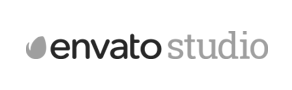
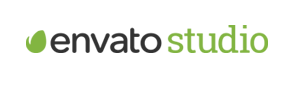
дороблений

Changed region(s): [[0.0616, 0.2667, 0.9247, 0.6667]]

diff --git a/index.html b/index.html
@@ -199,7 +199,7 @@
           <h3>Our Clients</h3>
           <div class="h3">Voyez ce jeu exquis wallon</div>
           <div class="client">
-            <a href="#"><img src="img/client1.png" alt="client1"></a>
+            <a href="#"><img class="client1" src="img/client1.png" alt="client1"></a>
             <a href="#"><img src="img/client2.png" alt="client2"></a>
             <a href="#"><img src="img/client3.png" alt="client3"></a>
             <a href="#"><img src="img/client4.png" alt="client4"></a>
@@ -383,13 +383,13 @@
     <footer id="bg3">
       <div class="container11">
         <div class="textLeft11">
-          <img class="iconsEnd" src="img/iconEnd1.png" alt="icon1">
-          <img class="iconsEnd" src="img/iconEnd2.png" alt="icon2">
-          <img class="iconsEnd" src="img/iconEnd3.png" alt="icon3">
-          <img class="iconsEnd" src="img/iconEnd4.png" alt="icon4">
+          <a href="#" class="linkText"> <img class="iconsEnd" src="img/iconEnd1.png" alt="icon1"> </a>
+          <a href="#" class="linkText"> <img class="iconsEnd" src="img/iconEnd2.png" alt="icon2"> </a>
+          <a href="#" class="linkText"> <img class="iconsEnd" src="img/iconEnd3.png" alt="icon3"> </a>
+          <a href="#" class="linkText"> <img class="iconsEnd" src="img/iconEnd4.png" alt="icon4"> </a>
           <h1 class="text111">/YURA SERDYUK</h1>
           <div class="textRight">
-            <img class="iconsEnd" src="img/iconEnd5.png" alt="icon5">
+            <a href="#" class="linkText"> <img class="iconsEnd" src="img/iconEnd5.png" alt="icon5"> </a>
             <h1 class="text112">2017  By : YURA SERDYUK</h1>
           </div>
         </div>

diff --git a/css/main.css b/css/main.css
@@ -190,9 +190,10 @@ p {
   border: 1px solid #23282f;
   text-indent:-9999px;
   font-size: 9px;
+  outline: none;
 }
 
-.slick-dots li button:hover {
+.slick-dots li button:hover{
   outline: none;
   background-color: #6d7d92;
   border: 1px solid #6d7d92;
@@ -648,11 +649,15 @@ h3 {
   text-align: center;
 }
 
-.client {
+.client a img{
   padding-top: 280px;
   padding-bottom: 250px;
+  filter: grayscale(100%);
 }
 
+.client a img:hover{
+  filter: grayscale(0%);
+}
 
 
 
@@ -757,6 +762,14 @@ table {
   color: #ffffff;
   text-decoration: none;
 
+}
+
+.videoButtom3:hover {
+  border-color: #f1f1f1;
+  background: #f1f1f1;
+  font-family: GothamBook;
+  font-size: 23px;
+  color: #1fab5a;
 }
 
 .textVideo51 {                /*Відступи кнопки таблиць*/
@@ -1039,12 +1052,9 @@ hr {
 }
 
 .container11{
-
   width: 76%;
   margin: 0 auto;
 }
-
-
 
 .text111 {
   font-family: CaeciliaLTStd;
@@ -1054,7 +1064,6 @@ hr {
   position: relative;
   padding-left: 200px;
   bottom: 60px;
-
 }
 
 .iconsEnd {
@@ -1063,7 +1072,16 @@ hr {
 
 .textLeft11 {
   height: 165px;
+}
 
+.linkText {
+  position: relative;
+  z-index: 2;
+  text-decoration: none;
+}
+
+.linkText:hover {
+  filter: invert(100);
 }
 
 .textRight {
